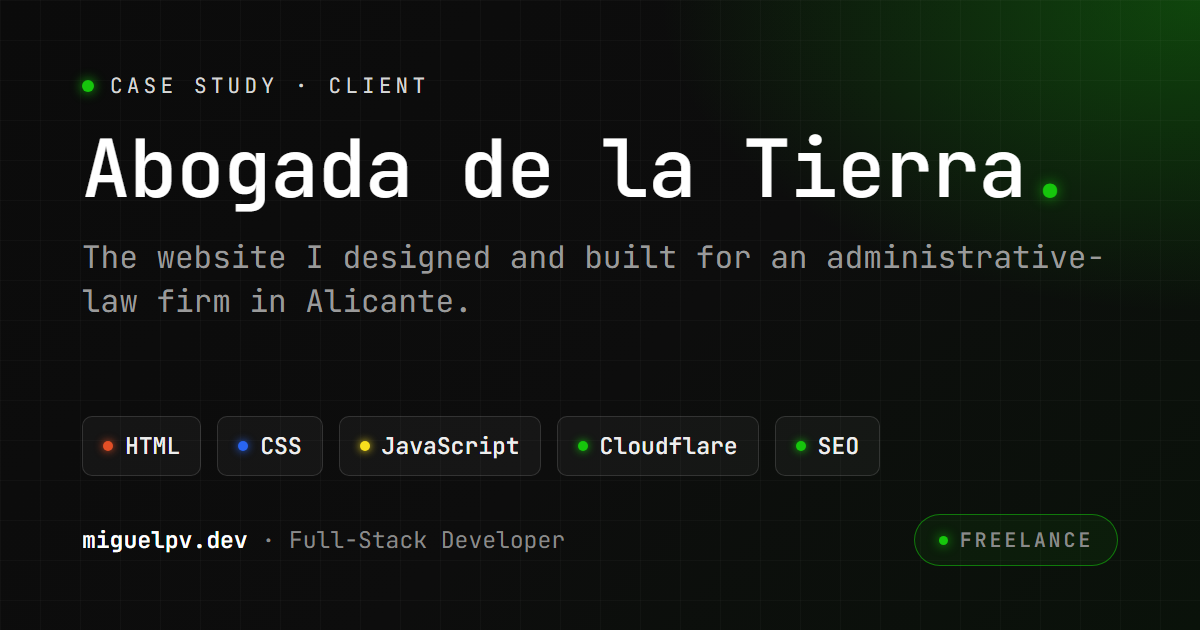
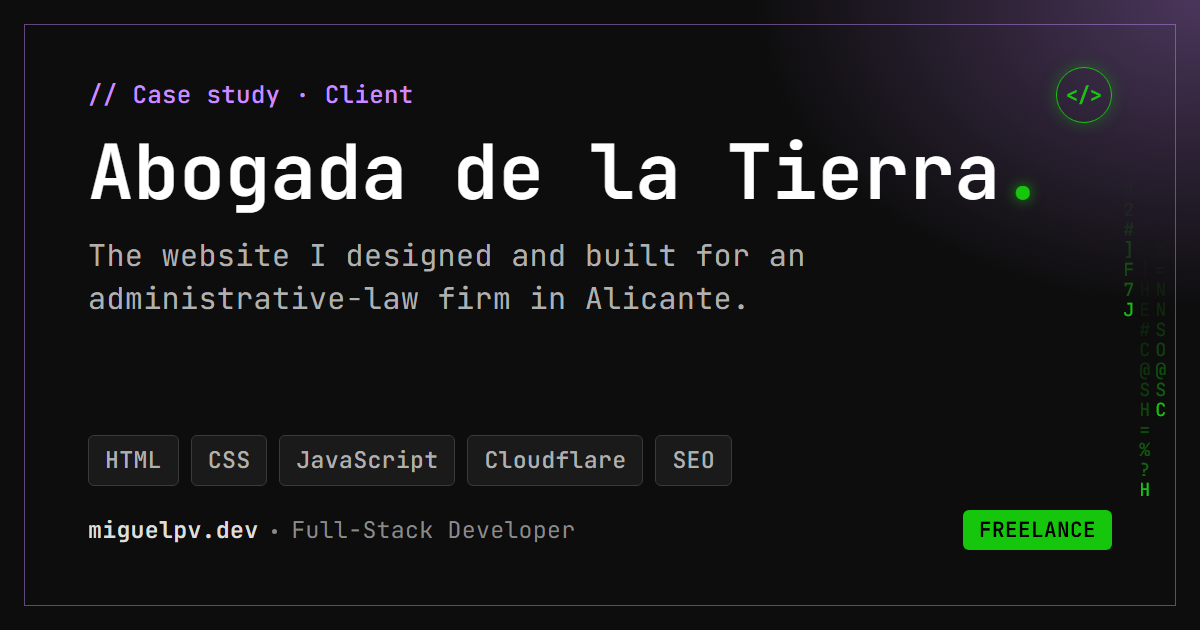
mod: og-images

diff --git a/templates/og-card.html b/templates/og-card.html
@@ -1,64 +1,94 @@
 <!doctype html>
-<!-- Social card (1200×630) rendered by scripts/og-cards.js. Not deployed. -->
+<!-- Social card (1200×630) rendered by scripts/og-cards.js. Not deployed.
+     The title, its green full stop included, must fit one line of 960px (clear of the mark),
+     or two balanced ones at ≤ 76px (more would push the footer off the card): a JetBrains Mono
+     character is 0.6em wide, so `size` ≤ 1600 / (characters + 1) for one line, counting only
+     the longer line for two. -->
 <html><head><meta charset="utf-8">
 <style>
 @font-face { font-family: JBM; src: url(/assets/fonts/jetbrains-mono-v24-latin-regular.woff2) format('woff2'); font-weight: 400; font-display: block; }
 @font-face { font-family: JBM; src: url(/assets/fonts/jetbrains-mono-v24-latin-500.woff2) format('woff2'); font-weight: 500; font-display: block; }
 @font-face { font-family: JBM; src: url(/assets/fonts/jetbrains-mono-v24-latin-600.woff2) format('woff2'); font-weight: 600; font-display: block; }
-* { box-sizing: border-box; margin: 0; }
+* { box-sizing: border-box; margin: 0; padding: 0; }
 html, body { width: 1200px; height: 630px; overflow: hidden; }
 body {
-  font-family: JBM, monospace; color: #fff;
-  background:
-    radial-gradient(900px 520px at 100% 0%, rgba(22,198,12,.30), transparent 60%),
-    linear-gradient(135deg, #0b0b0b 0%, #0d0d0d 55%, #0a120a 100%);
-  position: relative;
+  position: relative; font-family: JBM, monospace; font-variant-ligatures: none; letter-spacing: .025em;
+  background: radial-gradient(640px 440px at 100% 0%, rgba(203,140,255,.32), transparent 70%), #0d0d0d;
 }
-body::before { /* faint grid, like the original card */
-  content: ""; position: absolute; inset: 0;
-  background-image: linear-gradient(rgba(255,255,255,.025) 1px, transparent 1px), linear-gradient(90deg, rgba(255,255,255,.025) 1px, transparent 1px);
-  background-size: 40px 40px;
+.frame { position: absolute; inset: 24px; border: 1px solid rgba(203,140,255,.45); }
+.rain { /* the homepage's matrix effect, frozen: right edge only, below the mark, never behind text */
+  position: absolute; top: 140px; right: 34px; display: flex; gap: 5.2px;
+  font: 400 18px/20px JBM, monospace; letter-spacing: 0; color: #1bff0f;
 }
-.card { position: absolute; inset: 0; padding: 72px 82px 64px; display: flex; flex-direction: column; }
-.eyebrow { display: flex; align-items: center; gap: 16px; font-size: 21px; letter-spacing: .2em; text-transform: uppercase; color: #d6d6d6; }
-.dot { width: 12px; height: 12px; border-radius: 50%; background: #16c60c; box-shadow: 0 0 12px #16c60c; flex: none; }
-h1 { margin-top: 26px; font-weight: 500; letter-spacing: -.01em; line-height: 1.08; font-size: var(--title, 88px); max-width: 1040px; }
+.rain div { display: flex; flex-direction: column; }
+.rain span { height: 20px; }
+.mark { position: absolute; top: 67px; right: 88px; width: 56px; height: 56px; border: 1px solid #16c60c; border-radius: 50%;
+  box-shadow: 0 0 16px rgba(22,198,12,.35); display: flex; align-items: center; justify-content: center;
+  font-size: 20px; font-weight: 600; color: #16c60c; letter-spacing: 0; }
+.card { position: absolute; inset: 80px 88px; display: flex; flex-direction: column; }
+.eyebrow { font-size: 24px; font-weight: 500; line-height: 1.25; color: #cb8cff; max-width: 920px; }
+h1 { margin-top: 20px; font-size: var(--title, 88px); font-weight: 600; line-height: 1.1; color: #fff; letter-spacing: 0; max-width: 960px; text-wrap: balance; }
 h1 .end { color: #16c60c; text-shadow: 0 0 14px rgba(22,198,12,.8); }
-.sub { margin-top: 24px; margin-bottom: 28px; font-size: 31px; line-height: 1.42; color: #9a9a9a; max-width: 1030px; }
-.chips { margin-top: auto; display: flex; flex-wrap: wrap; gap: 16px; }
-.chip { display: flex; align-items: center; gap: 12px; padding: 14px 20px; border: 1px solid rgba(255,255,255,.13); border-radius: 10px; background: rgba(255,255,255,.04); font-size: 23px; font-weight: 500; color: #eee; }
-.chip i { width: 10px; height: 10px; border-radius: 50%; background: var(--c, #16c60c); box-shadow: 0 0 8px var(--c, #16c60c); }
-.foot { margin-top: 38px; display: flex; align-items: center; justify-content: space-between; font-size: 23px; }
-.foot b { font-weight: 600; }
-.foot span { color: #8a8a8a; }
-.pill { display: flex; align-items: center; gap: 12px; padding: 12px 24px; border: 1.5px solid rgba(22,198,12,.55); border-radius: 999px; background: rgba(22,198,12,.07); color: #16c60c; font-size: 20px; font-weight: 600; letter-spacing: .14em; }
-.pill.ligs { letter-spacing: 0; font-variant-ligatures: normal; }
+.sub { margin-top: 20px; font-size: 30px; line-height: 1.45; color: #b0b0b0; text-wrap: balance; }
+.nowrap { white-space: nowrap; }
+.chips { margin-top: auto; padding-top: 24px; display: flex; flex-wrap: wrap; gap: 12px; }
+.chip { padding: 10px 16px; border: 1px solid #3a3a3a; border-radius: 6px; background: #1a1a1a; font-size: 23px; font-weight: 500; line-height: 1.25; color: #b0b0b0; }
+.foot { margin-top: 24px; height: 40px; display: flex; align-items: center; justify-content: space-between; font-size: 23px; line-height: 1.25; }
+.brand { font-weight: 600; color: #dedede; }
+.dot { display: inline-block; width: 5px; height: 5px; border-radius: 50%; background: #8a8a8a; margin: 0 14px; vertical-align: middle; }
+.role { color: #8a8a8a; }
+.pill { padding: 7px 16px; border-radius: 6px; background: #16c60c; color: #000; font-size: 21px; font-weight: 600; line-height: 1.25; }
+.pill.ligs { letter-spacing: 0; font-variant-ligatures: normal; } /* "->" as the arrow ligature; letter-spacing would disable it */
 </style></head>
 <body>
+<div class="frame"></div>
+<div class="rain" id="rain"></div>
+<div class="mark">&lt;/&gt;</div>
 <div class="card">
-  <div class="eyebrow"><span class="dot"></span><span id="eyebrow"></span></div>
+  <p class="eyebrow" id="eyebrow"></p>
   <h1 id="title"></h1>
   <p class="sub" id="sub"></p>
   <div class="chips" id="chips"></div>
-  <div class="foot"><div><b>miguelpv.dev</b> <span id="footer"></span></div><div class="pill" id="pill"><span class="dot" style="width:9px;height:9px"></span><span id="pilltext"></span></div></div>
+  <div class="foot"><p><span class="brand">miguelpv.dev</span><span class="dot"></span><span class="role" id="footer"></span></p><p class="pill" id="pill"></p></div>
 </div>
 <script>
 const q = new URLSearchParams(location.search);
-const COLORS = { Vue: '#41b883', Node: '#5fa04e', TypeScript: '#3178c6', MongoDB: '#47a248', React: '#61dafb', Tailwind: '#38bdf8', JavaScript: '#f7df1e', HTML: '#e34f26', CSS: '#2965f1', npm: '#cb3837' };
-document.getElementById('eyebrow').textContent = q.get('eyebrow');
-const t = document.getElementById('title');
-t.textContent = q.get('title');
-const end = document.createElement('span'); end.className = 'end'; end.textContent = '.'; t.append(end);
+// Rain: three trails, each brightest at its head and fading upwards, like 03-matrix.js
+// mid-fall. Seeded, so every card gets the same glyphs.
+let seed = 2026;
+const random = () => (seed = (seed * 1103515245 + 12345) % 2147483648) / 2147483648;
+const GLYPHS = '0123456789ABCDEFGHIJKLMNOPQRSTUVWXYZ@#$%&*()[]{}<>?/\\|~^+=-';
+for (const [head, length] of [[8, 7], [17, 13], [13, 9]]) { // rows of 20px from y = 140; heads end above the pill's row
+  const col = document.createElement('div');
+  for (let row = 0; row <= head; row++) {
+    const span = document.createElement('span');
+    const t = (row - (head - length)) / length; // 0 at the tail's end, 1 at the head
+    span.textContent = GLYPHS[Math.floor(random() * GLYPHS.length)];
+    span.style.opacity = t <= 0 ? 0 : row === head ? .75 : (.4 * t ** 1.6).toFixed(3);
+    col.append(span);
+  }
+  document.getElementById('rain').append(col);
+}
+// Balanced wrapping may break at a hyphen ("open-/source"); hyphenated words stay whole.
+function fill(el, text) {
+  text.split(/(\S+-\S+)/).forEach((part, i) => {
+    if (i % 2) { const s = document.createElement('span'); s.className = 'nowrap'; s.textContent = part; el.append(s); }
+    else el.append(part);
+  });
+}
+document.getElementById('eyebrow').textContent = '// ' + q.get('eyebrow');
+const title = document.getElementById('title');
+fill(title, q.get('title'));
+const end = document.createElement('span'); end.className = 'end'; end.textContent = '.'; title.append(end);
 if (q.get('size')) document.body.style.setProperty('--title', q.get('size') + 'px');
-document.getElementById('sub').textContent = q.get('sub');
-document.getElementById('footer').textContent = '· ' + q.get('footer');
+fill(document.getElementById('sub'), q.get('sub'));
+document.getElementById('footer').textContent = q.get('footer');
 for (const c of (q.get('chips') || '').split('|').filter(Boolean)) {
-  const el = document.createElement('span'); el.className = 'chip';
-  const i = document.createElement('i'); if (COLORS[c]) i.style.setProperty('--c', COLORS[c]);
-  el.append(i, c); document.getElementById('chips').append(el);
+  const el = document.createElement('span'); el.className = 'chip'; el.textContent = c;
+  document.getElementById('chips').append(el);
 }
 const pill = q.get('pill');
-if (pill) { document.getElementById('pilltext').textContent = pill; if (pill.includes('->')) document.getElementById('pill').classList.add('ligs'); }
+if (pill) { document.getElementById('pill').textContent = pill; if (pill.includes('->')) document.getElementById('pill').classList.add('ligs'); }
 else document.getElementById('pill').remove();
 </script>
 </body></html>

diff --git a/data/site.js b/data/site.js
@@ -100,8 +100,8 @@ export const PAGES = [
     },
     card: {
       name: 'projects',
-      en: { eyebrow: 'Projects', title: 'Everything I\'ve built', sub: 'Products, client work and open-source tools, all held to the same bar.', chips: 'Vue|Node|TypeScript|React|JavaScript' },
-      es: { eyebrow: 'Proyectos', title: 'Todo lo que he construido', sub: 'Productos, webs para clientes y herramientas open source, con el mismo listón para todos.', chips: 'Vue|Node|TypeScript|React|JavaScript', size: 80 },
+      en: { eyebrow: 'Projects', title: 'Everything I\'ve built', sub: 'Products, client work and open-source tools, all held to the same bar.', chips: 'Vue|Node|TypeScript|React|JavaScript', size: 72 },
+      es: { eyebrow: 'Proyectos', title: 'Todo lo que he construido', sub: 'Productos, webs para clientes y herramientas open source, con el mismo listón para todos.', chips: 'Vue|Node|TypeScript|React|JavaScript', size: 61 },
     },
   },
   {
@@ -133,7 +133,7 @@ export const PAGES = [
     card: {
       name: 'web-font-strategy',
       en: { eyebrow: 'Blog · Web fonts', title: 'Web Font Strategy', sub: 'The four steps I always run, measured on this site.', chips: 'Self-host|WOFF2|Subset|Preload', pill: '825 KB -> 65 KB' },
-      es: { eyebrow: 'Blog · Fuentes web', title: 'Estrategia de fuentes web', sub: 'Los cuatro pasos que siempre aplico, medidos en esta web.', chips: 'Autoalojar|WOFF2|Subconjunto|Preload', pill: '825 KB -> 65 KB', size: 62 },
+      es: { eyebrow: 'Blog · Fuentes web', title: 'Estrategia de fuentes web', sub: 'Los cuatro pasos que siempre aplico, medidos en esta web.', chips: 'Autoalojar|WOFF2|Subconjunto|Preload', pill: '825 KB -> 65 KB', size: 61 },
     },
   },
   {
@@ -184,8 +184,8 @@ export const PAGES = [
     },
     card: {
       name: 'abogada-de-la-tierra',
-      en: { eyebrow: 'Case study · Client', title: 'Abogada de la Tierra', sub: 'The website I designed and built for an administrative-law firm in Alicante.', chips: 'HTML|CSS|JavaScript|Cloudflare|SEO', pill: 'FREELANCE', size: 80 },
-      es: { eyebrow: 'Caso práctico · Cliente', title: 'Abogada de la Tierra', sub: 'La web que diseñé y desarrollé para un despacho de Derecho Administrativo en Alicante.', chips: 'HTML|CSS|JavaScript|Cloudflare|SEO', pill: 'FREELANCE', size: 80 },
+      en: { eyebrow: 'Case study · Client', title: 'Abogada de la Tierra', sub: 'The website I designed and built for an administrative-law firm in Alicante.', chips: 'HTML|CSS|JavaScript|Cloudflare|SEO', pill: 'FREELANCE', size: 76 },
+      es: { eyebrow: 'Caso práctico · Cliente', title: 'Abogada de la Tierra', sub: 'La web que diseñé y desarrollé para un despacho de Derecho Administrativo en Alicante.', chips: 'HTML|CSS|JavaScript|Cloudflare|SEO', pill: 'FREELANCE', size: 76 },
     },
   },
   {
@@ -197,8 +197,8 @@ export const PAGES = [
     },
     card: {
       name: 'input-color-feedback',
-      en: { eyebrow: 'Case study · Open source', title: 'Input Color Feedback', sub: 'Live colour and icon feedback for form inputs. Pure CSS, no JavaScript, published on npm.', chips: 'npm|CSS|Open Source|MIT', pill: '~0.97 KB', size: 80 },
-      es: { eyebrow: 'Caso práctico · Open source', title: 'Input Color Feedback', sub: 'Feedback de color e icono en vivo para formularios. CSS puro, sin JavaScript, publicado en npm.', chips: 'npm|CSS|Open Source|MIT', pill: '~0,97 KB', size: 80 },
+      en: { eyebrow: 'Case study · Open source', title: 'Input Color Feedback', sub: 'Live colour and icon feedback for form inputs. Pure CSS, no JavaScript, published on npm.', chips: 'npm|CSS|Open Source|MIT', pill: '~0.97 KB', size: 76 },
+      es: { eyebrow: 'Caso práctico · Open source', title: 'Input Color Feedback', sub: 'Feedback de color e icono en vivo para formularios. CSS puro, sin JavaScript, publicado en npm.', chips: 'npm|CSS|Open Source|MIT', pill: '~0,97 KB', size: 76 },
     },
   },
 ];

diff --git a/scripts/og-cards.js b/scripts/og-cards.js
@@ -16,7 +16,8 @@
    Card copy rules: titles in the page's own words; a subtitle that fits two
    lines; a pill only for a figure that won't go stale. The subset font has no
    arrow or "≈" glyphs — write "->" (the pill renders it as an arrow ligature)
-   and "~". `chips` are |-separated; `size` overrides the 88px title. */
+   and "~". `chips` are |-separated; `size` overrides the 88px title (the template's
+   header comment gives the most a title of a given length can take). */
 import fs from 'fs';
 import http from 'http';
 import os from 'os';
